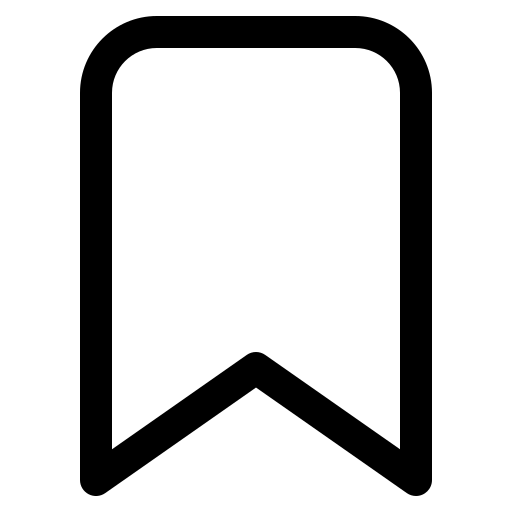
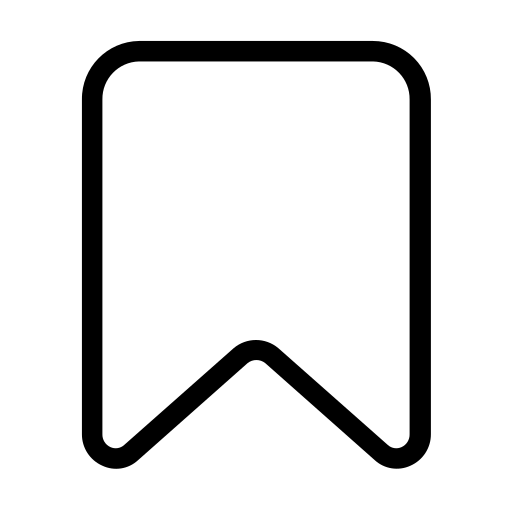
최영민 - 북마크이미지추가 / 마커 클릭시 클릭된 리스트 맨위로 스크롤이동

Changed region(s): [[0.1562, 0.0312, 0.8438, 0.9688], [0.75, 0.125, 0.7812, 0.1562], [0.2188, 0.125, 0.25, 0.1562]]

diff --git a/dog/src/main/resources/static/css/hospital.css b/dog/src/main/resources/static/css/hospital.css
@@ -1,14 +1,45 @@
 @charset "UTF-8";
 
+small{
+	font-size : 12px;
+	opacity : 0.8;
+}
+a{
+	color : black;
+}
 #map{
+	position : sticky;
 	margin : 0 auto;
-	margin-bottom : 20px;
+	top : 40px;
+	z-index: 1000;
 }
 .wrap{
-	width : 980px;
 	margin : 0 auto;
 }
 #keyfield {
 	border-radius : 5px;
 	font-size : 16px;
+}
+.place-list{
+	overflow:auto;
+}
+.place-list li{
+	height : 105px;
+	padding : 15px 15px;
+	border-bottom : 1px solid;
+}
+.place-bookmark{
+	float : right;
+	
+}
+.place-bookmark img{
+	width : 30px;
+	height : 30px;
+}
+
+.list-content p{
+	margin : 5px 0;
+	overflow : hidden;
+   	white-space:nowrap;
+   	text-overflow : ellipsis;
 }

diff --git a/dog/src/main/resources/static/css/main.css b/dog/src/main/resources/static/css/main.css
@@ -52,10 +52,13 @@
 	color : black;
 }
 #main_header{
+	position : sticky;
+	top : 0px;
 	width : 100vw;
 	height : 40px;
 	background : #FDF7C6;
 	margin : 0 auto;
+	z-index: 1001;
 }
 #menu_homeBtn{
 	padding-top : 5px;
